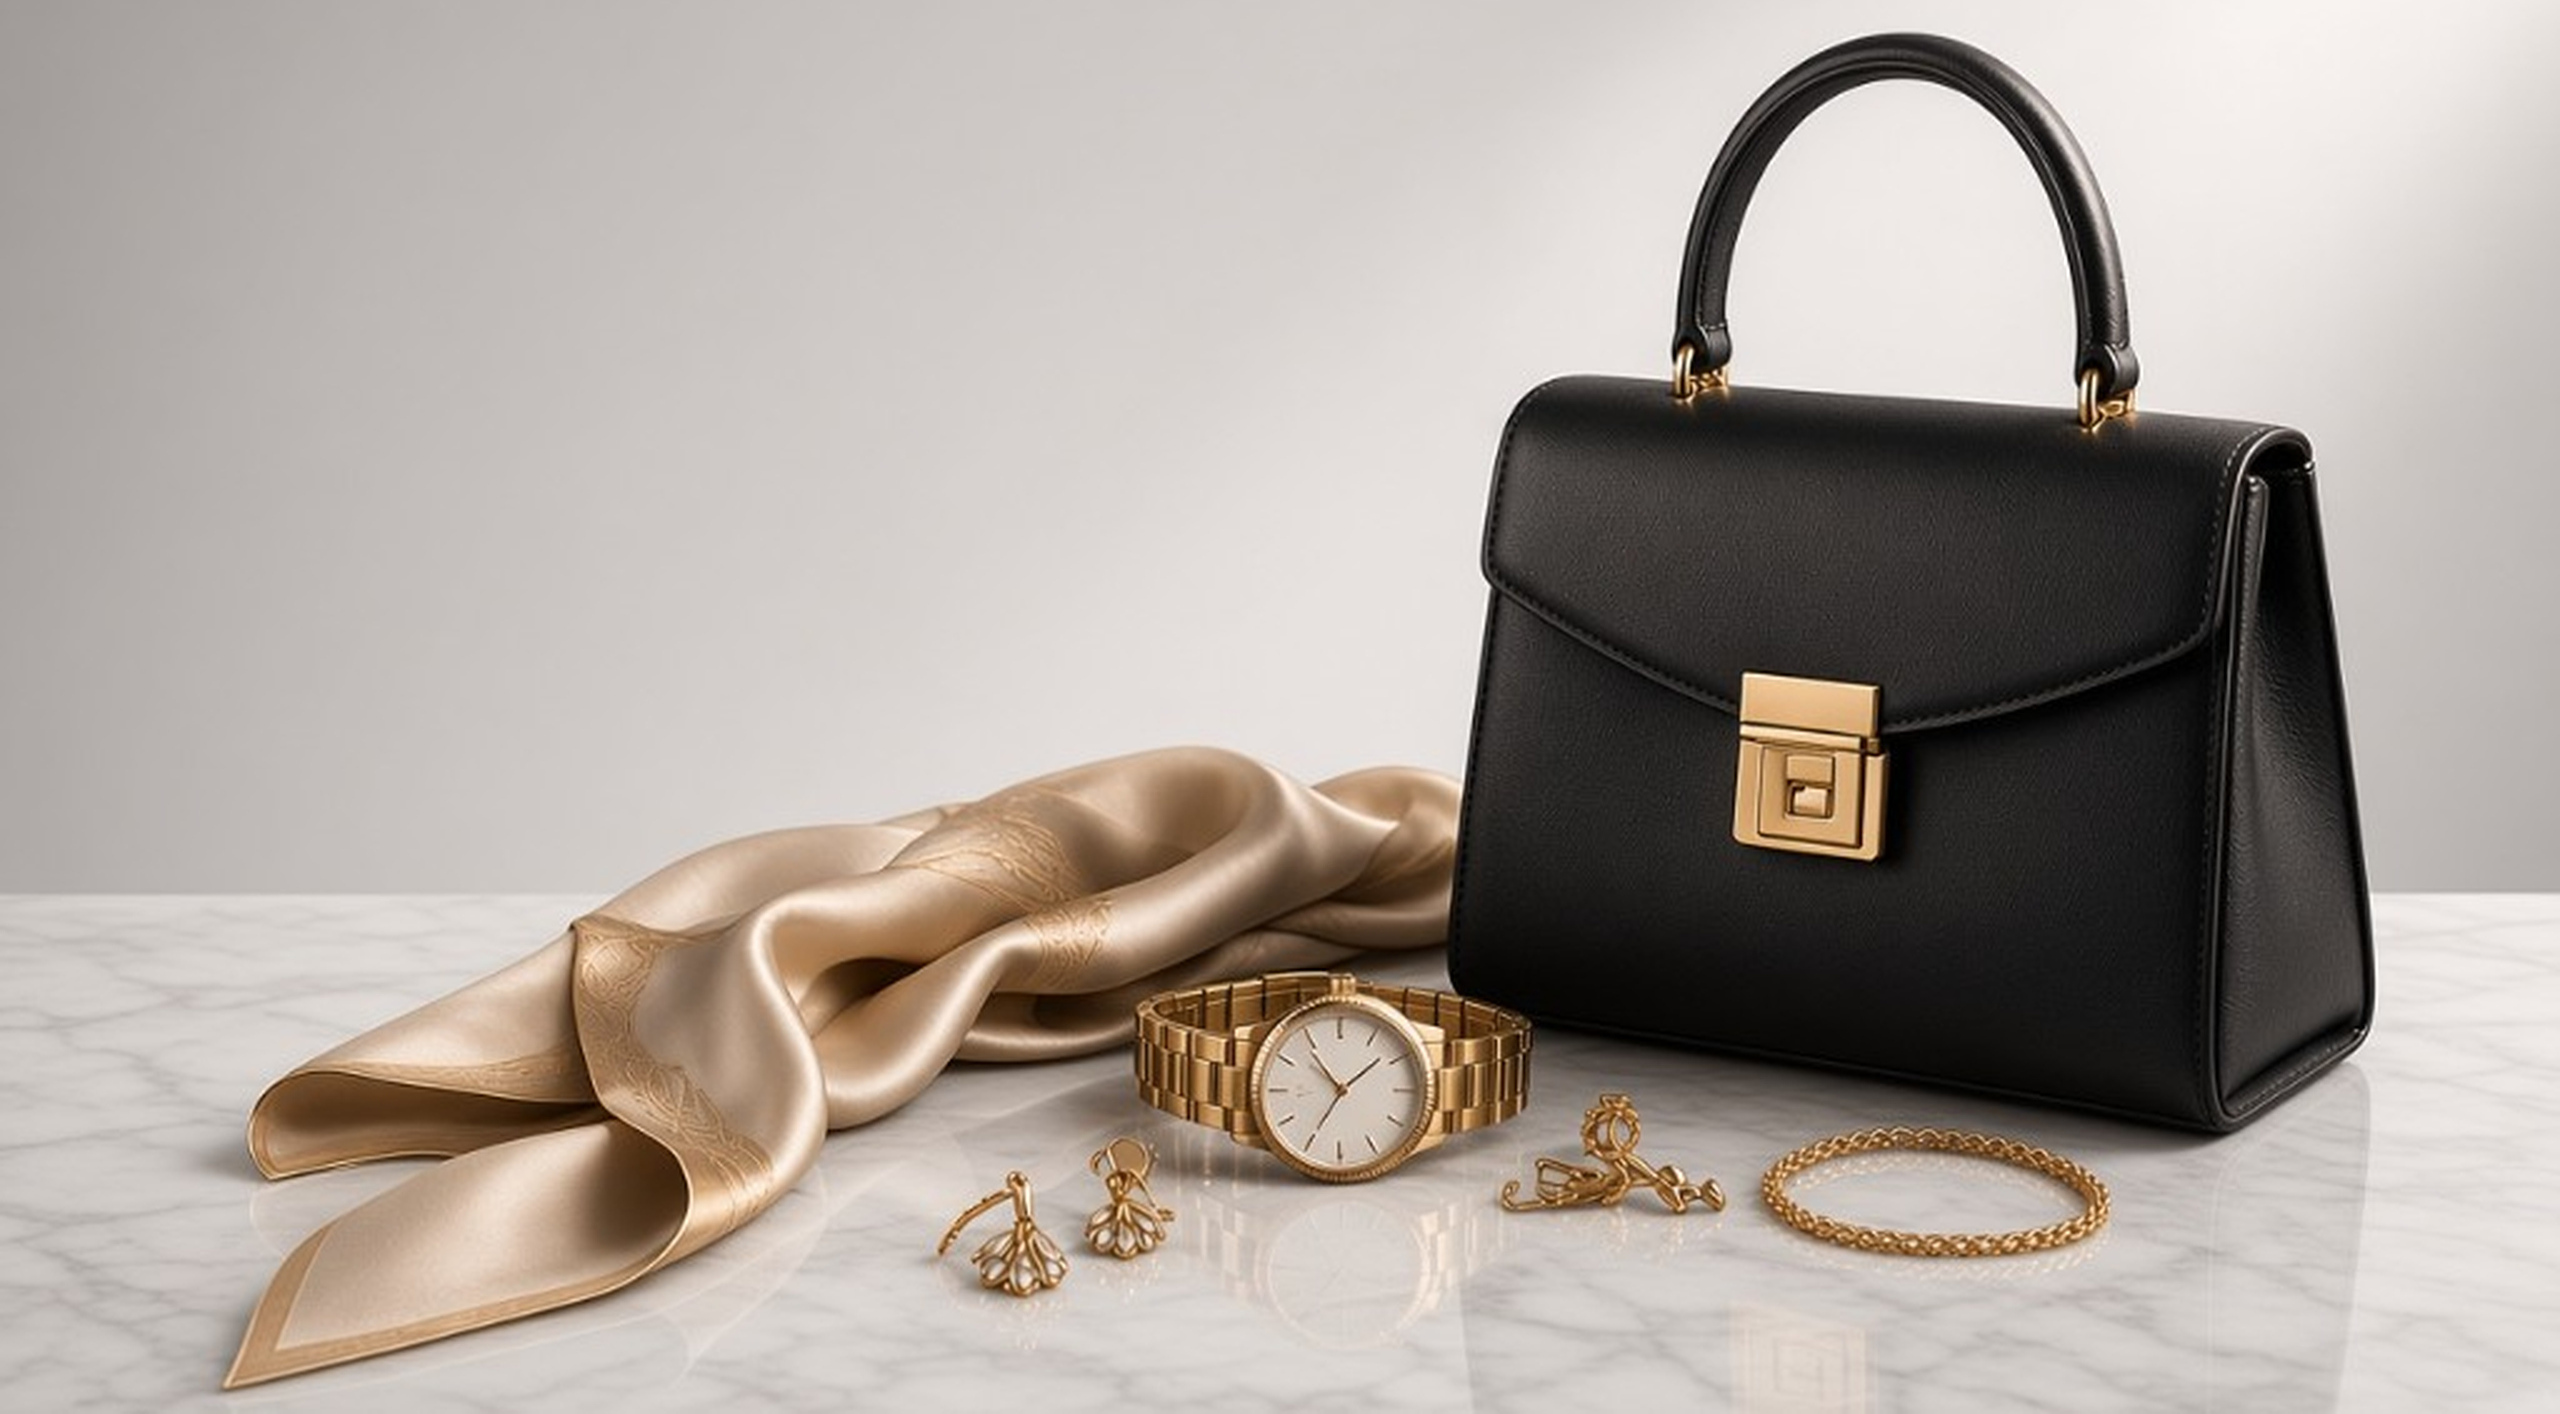
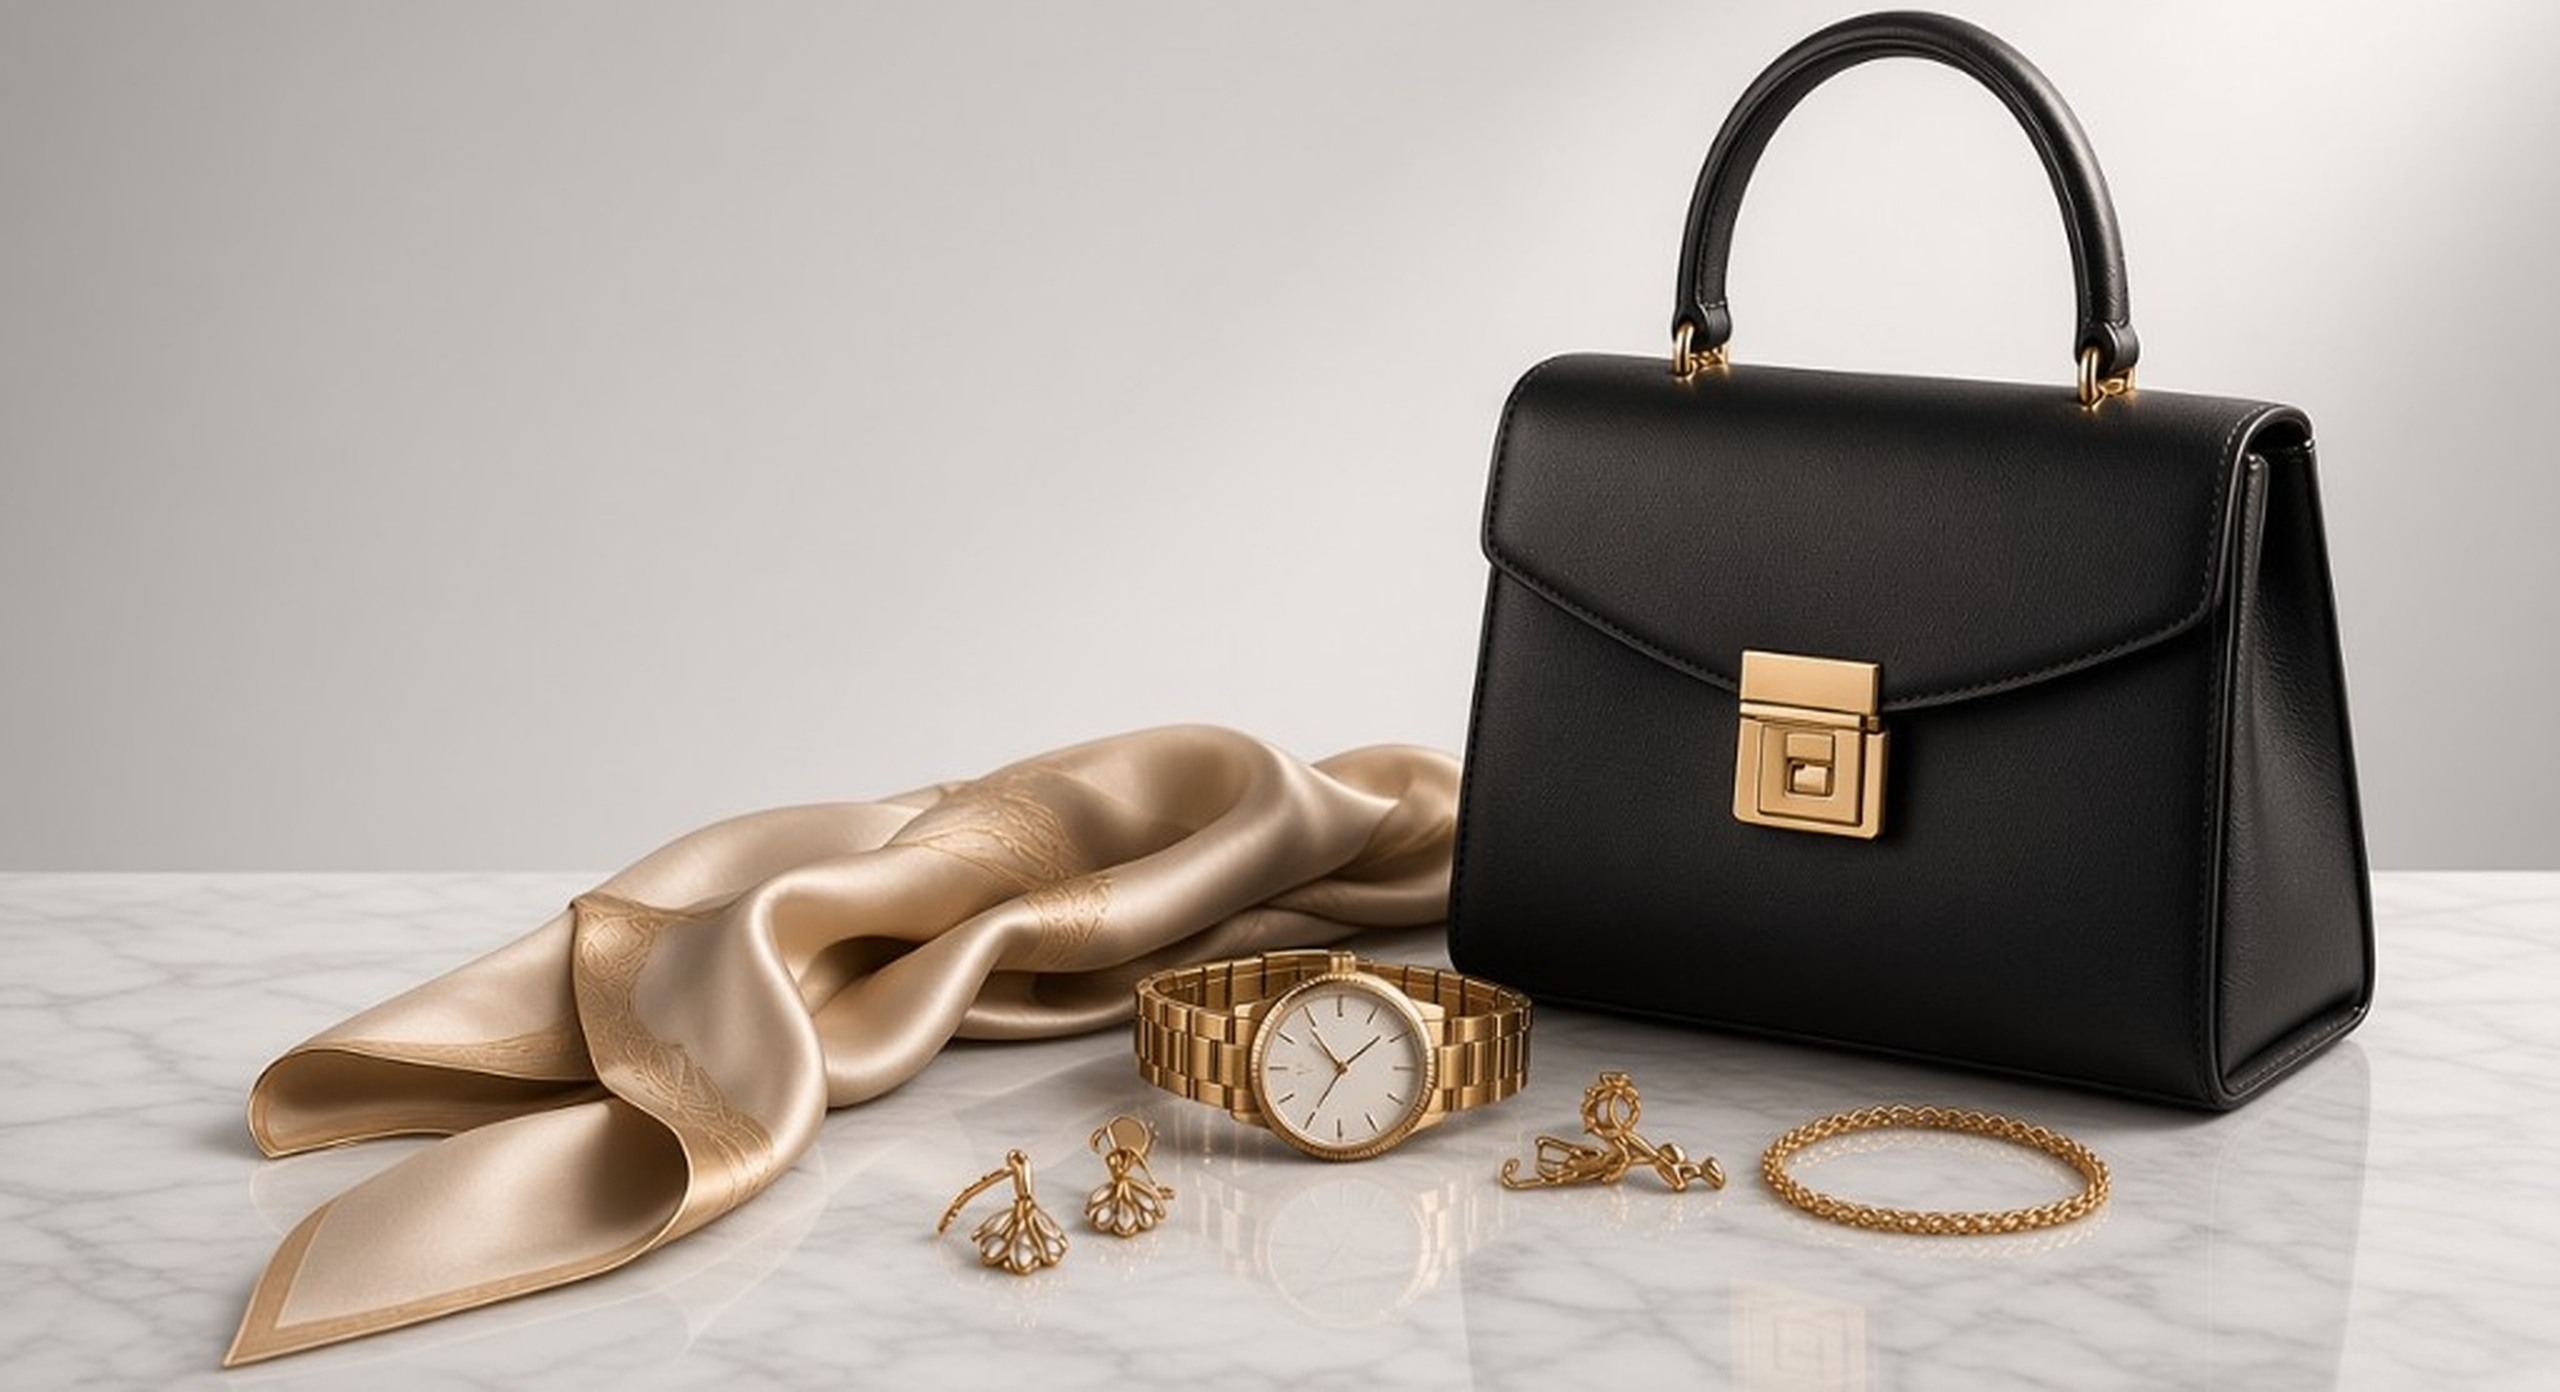
fix: tighten Now in London top margin to 40% of strap gap
Crop closer to the bag handle so products read larger while keeping a thin breathing gap above the strap.

diff --git a/src/app/globals.css b/src/app/globals.css
@@ -1860,8 +1860,8 @@ body:has(.nav-drawer-toggle:checked) {
   .look-banner--fullframe {
     min-height: 0;
     max-height: none;
-    /* Match locked Now in London crop (2560×1414) */
-    aspect-ratio: 2560 / 1414;
+    /* Match locked Now in London crop (2560×1392) */
+    aspect-ratio: 2560 / 1392;
     height: auto;
   }
 }
@@ -1869,7 +1869,7 @@ body:has(.nav-drawer-toggle:checked) {
 .look-banner--fullframe {
   min-height: 0;
   max-height: none;
-  aspect-ratio: 2560 / 1414;
+  aspect-ratio: 2560 / 1392;
   height: auto;
 }
 
